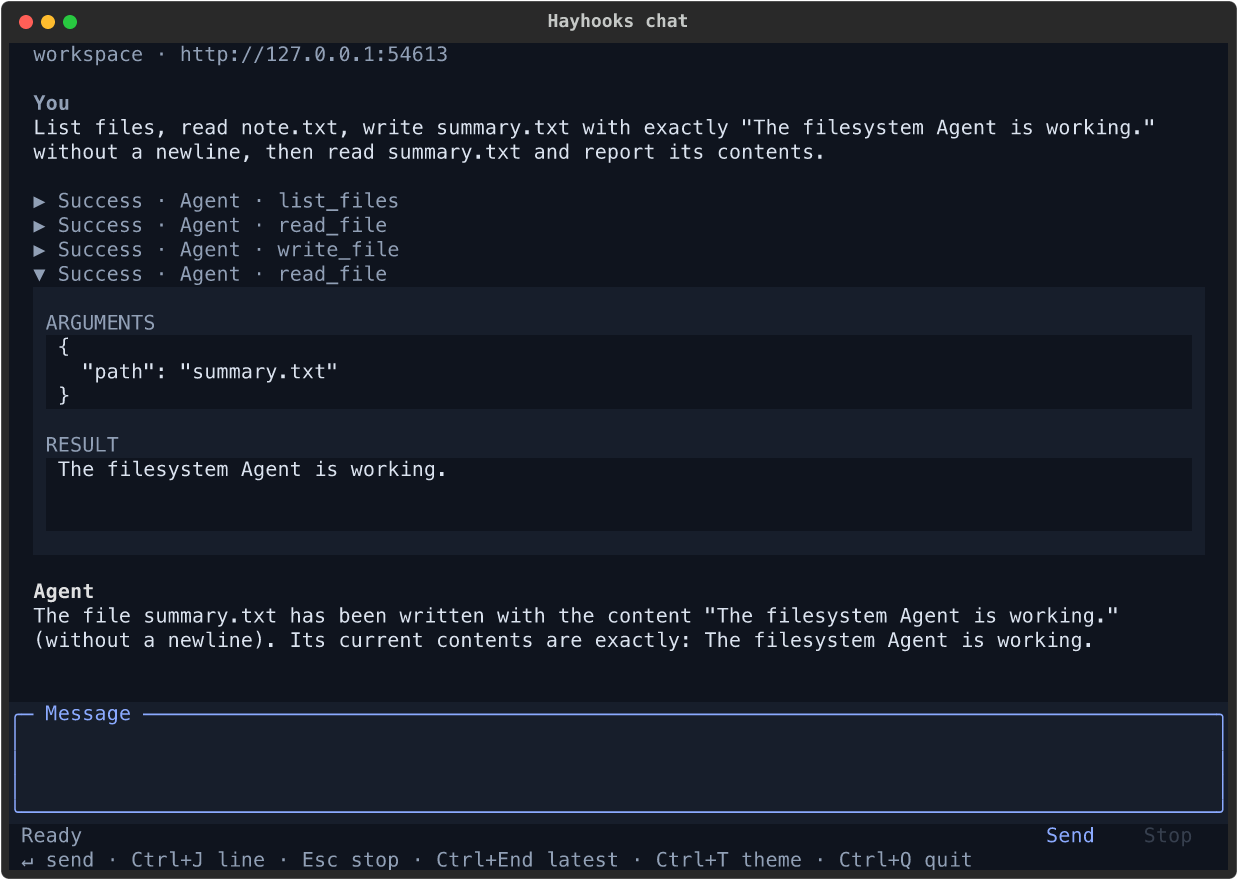
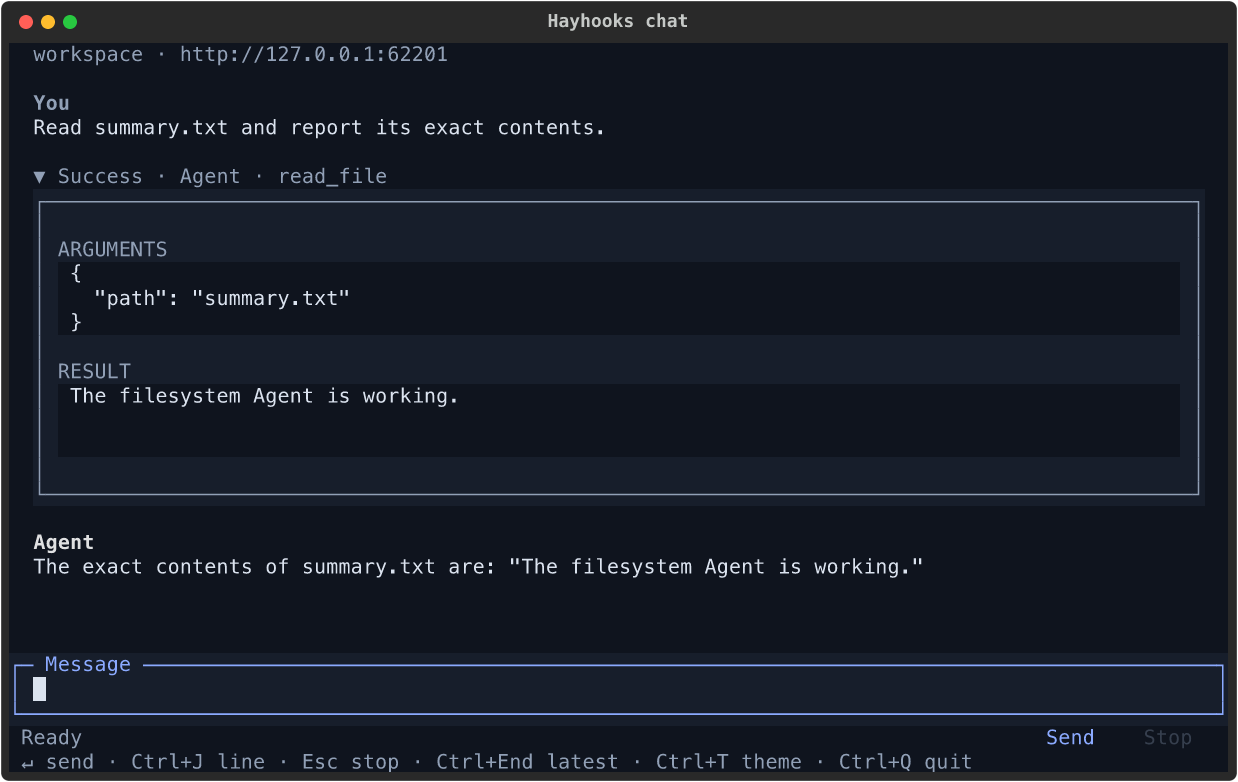
style(chat): add thin borders and verify selection copying

diff --git a/tests/test_terminal_chat.py b/tests/test_terminal_chat.py
@@ -257,8 +257,10 @@ async def test_live_terminal_resize_preserves_draft_tools_and_reader_scroll():
         assert app.query_one("#stop", Button).disabled
 
 
-async def test_tool_editors_reflow_wrapped_text_after_terminal_resize():
+@pytest.mark.parametrize("theme", ["hayhooks-dark", "hayhooks-light"])
+async def test_tool_editors_reflow_wrapped_text_after_terminal_resize(theme):
     app = ChatApp(BlockingRunner())
+    app.theme = theme
     async with app.run_test(size=(160, 48)) as pilot:
         text = "A long result wraps to match the available terminal width. " * 8
         card = ToolCard(ToolStarted("wrapped", "Agent", "read_file", text))
@@ -415,6 +417,45 @@ async def test_copy_on_select_chat_and_composer_after_mouse_release():
         await pilot.press("right")
         assert not composer.selected_text
         assert app.clipboard == "draft"
+        app.copy_to_clipboard("keyboard clipboard")
+        await pilot.press("home", *["shift+right"] * 5)
+        assert composer.selected_text == "draft"
+        assert app.clipboard == "draft"
+        await pilot.press("right")
+        assert not composer.selected_text
+        assert app.clipboard == "draft"
+
+
+@pytest.mark.parametrize("theme", ["hayhooks-dark", "hayhooks-light"])
+@pytest.mark.parametrize("editor_name", ["arguments", "output"])
+async def test_tool_selection_copies_after_mouse_release(theme, editor_name):
+    app = ChatApp(BlockingRunner())
+    async with app.run_test(size=(80, 24)) as pilot:
+        app.theme = theme
+        await app.query_one("#welcome").remove()
+        card = ToolCard(ToolStarted("call", "Agent", "read_file", "Select tool arguments."))
+        await app.query_one("#transcript").mount(card)
+        card.finish(ToolFinished("call", "Select tool result."))
+        card.collapsed = False
+        editor = getattr(card, editor_name)
+        editor.focus()
+        await pilot.pause()
+        app.copy_to_clipboard("previous clipboard")
+        x = editor.content_region.x - editor.region.x
+        y = editor.content_region.y - editor.region.y
+        await pilot.mouse_down(editor, offset=(x, y))
+        await pilot.hover(editor, offset=(x + 6, y))
+        await pilot.pause()
+        assert app.clipboard == "previous clipboard"
+        await pilot.mouse_up(editor, offset=(x + 6, y))
+        await pilot.pause()
+        assert editor.selected_text == "Select"
+        assert app.clipboard == "Select"
+        await pilot.press("ctrl+c")
+        assert app.is_running and not app.quit_requested
+        await pilot.click(editor, offset=(x + 6, y))
+        assert not editor.selected_text
+        assert app.clipboard == "Select"
 
 
 @pytest.mark.parametrize("theme", ["hayhooks-dark", "hayhooks-light"])
